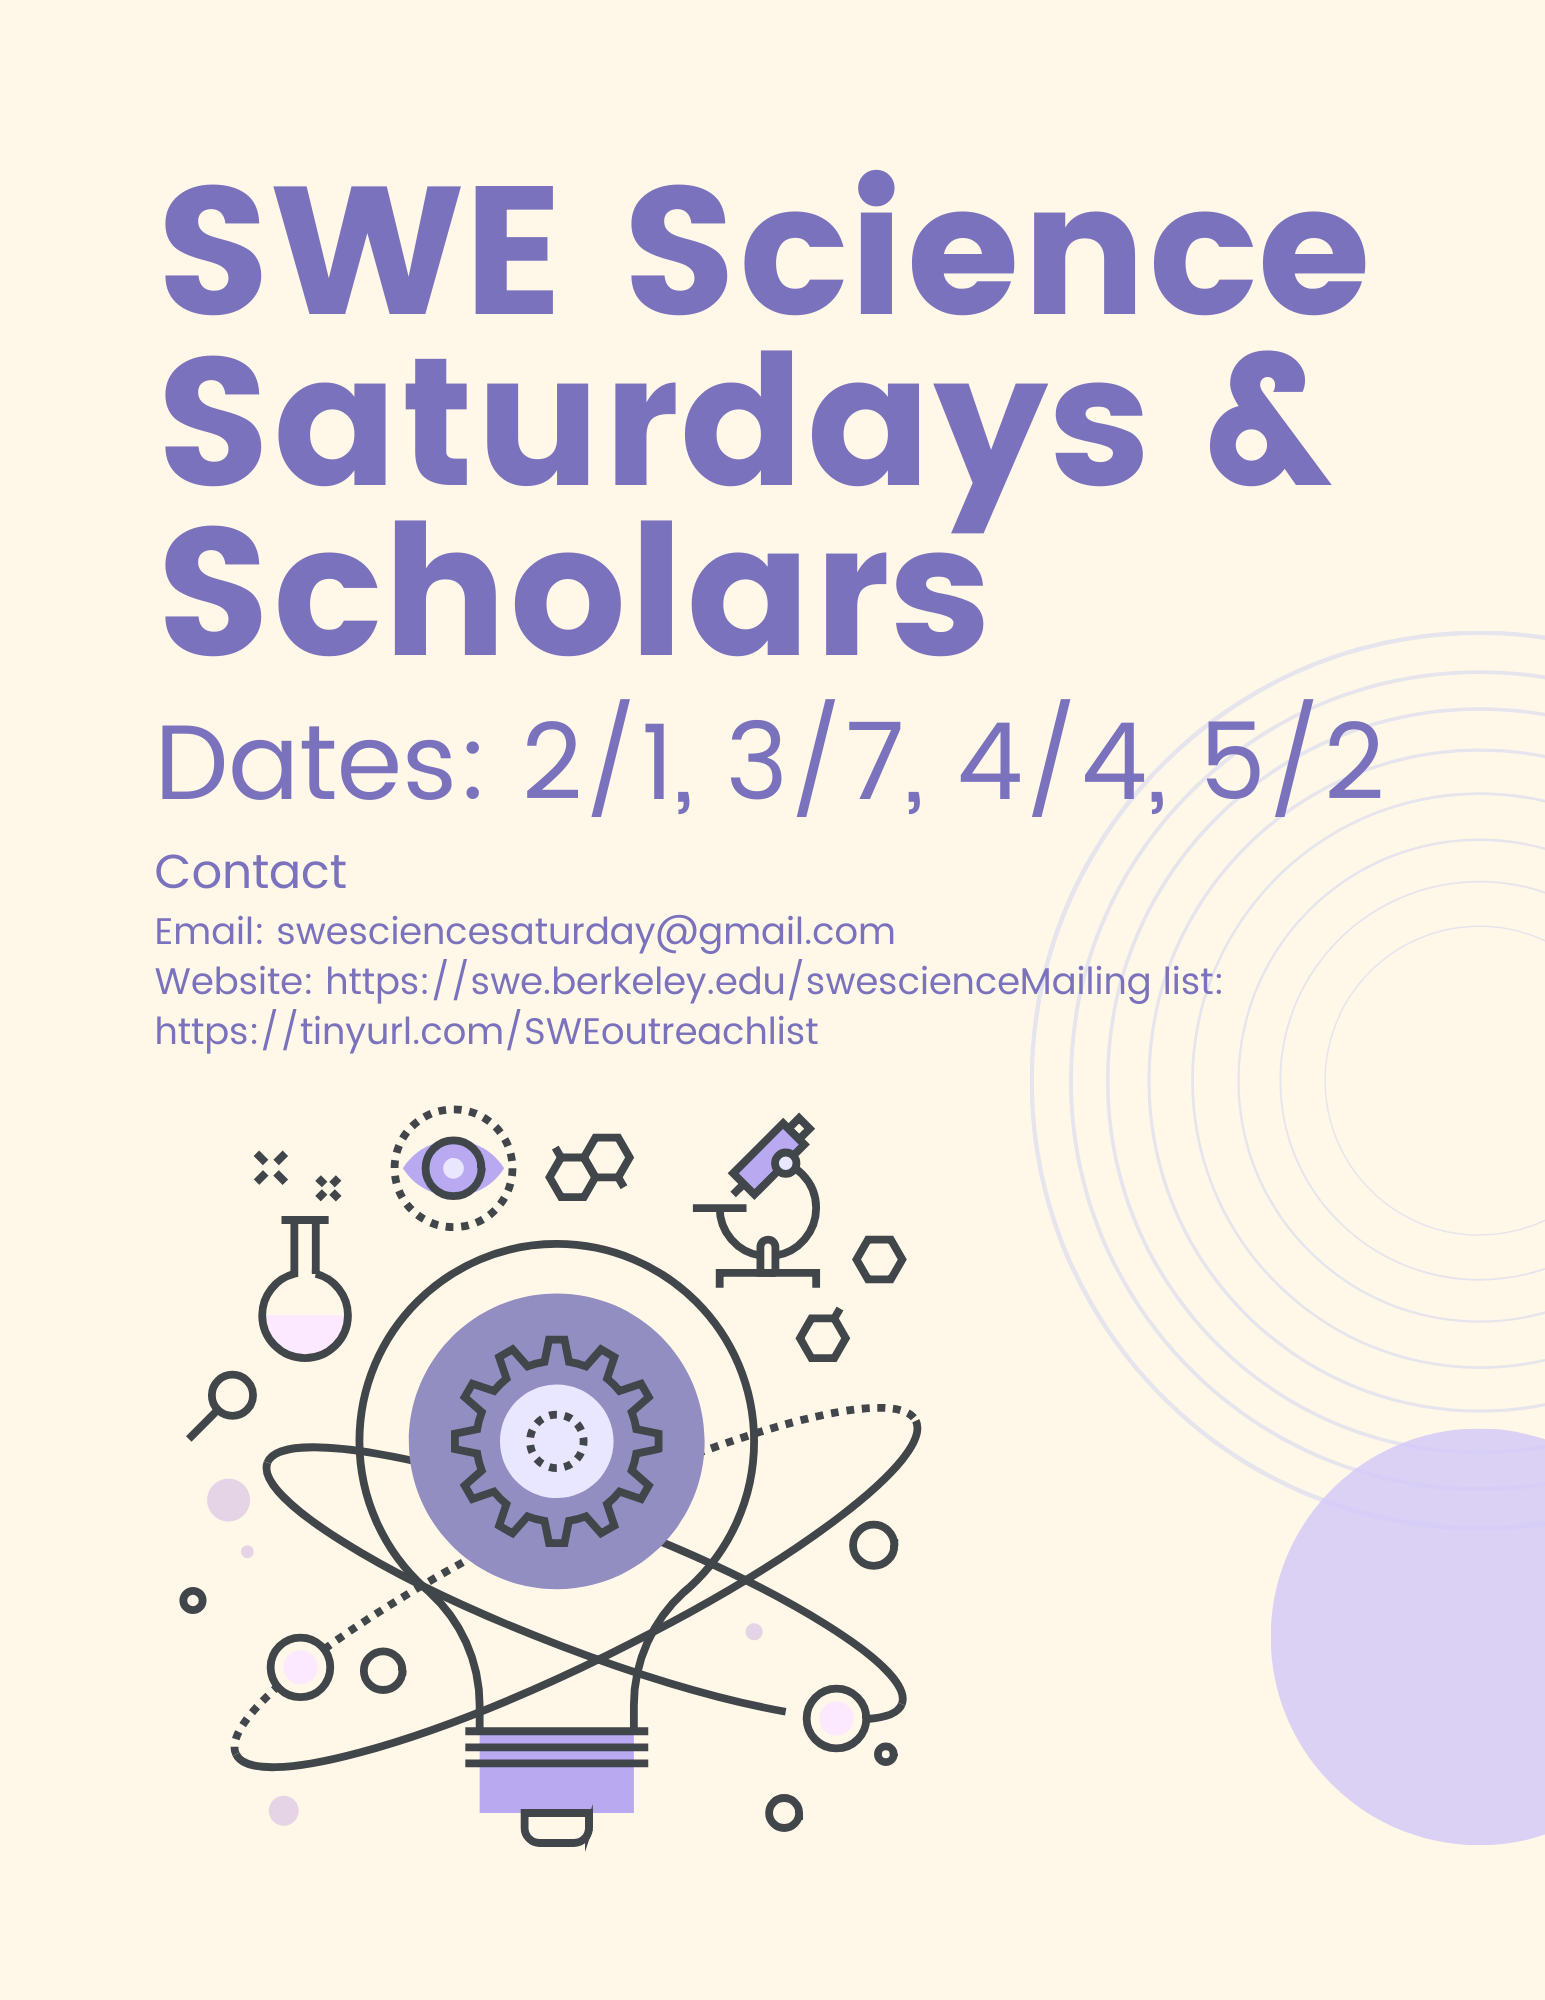
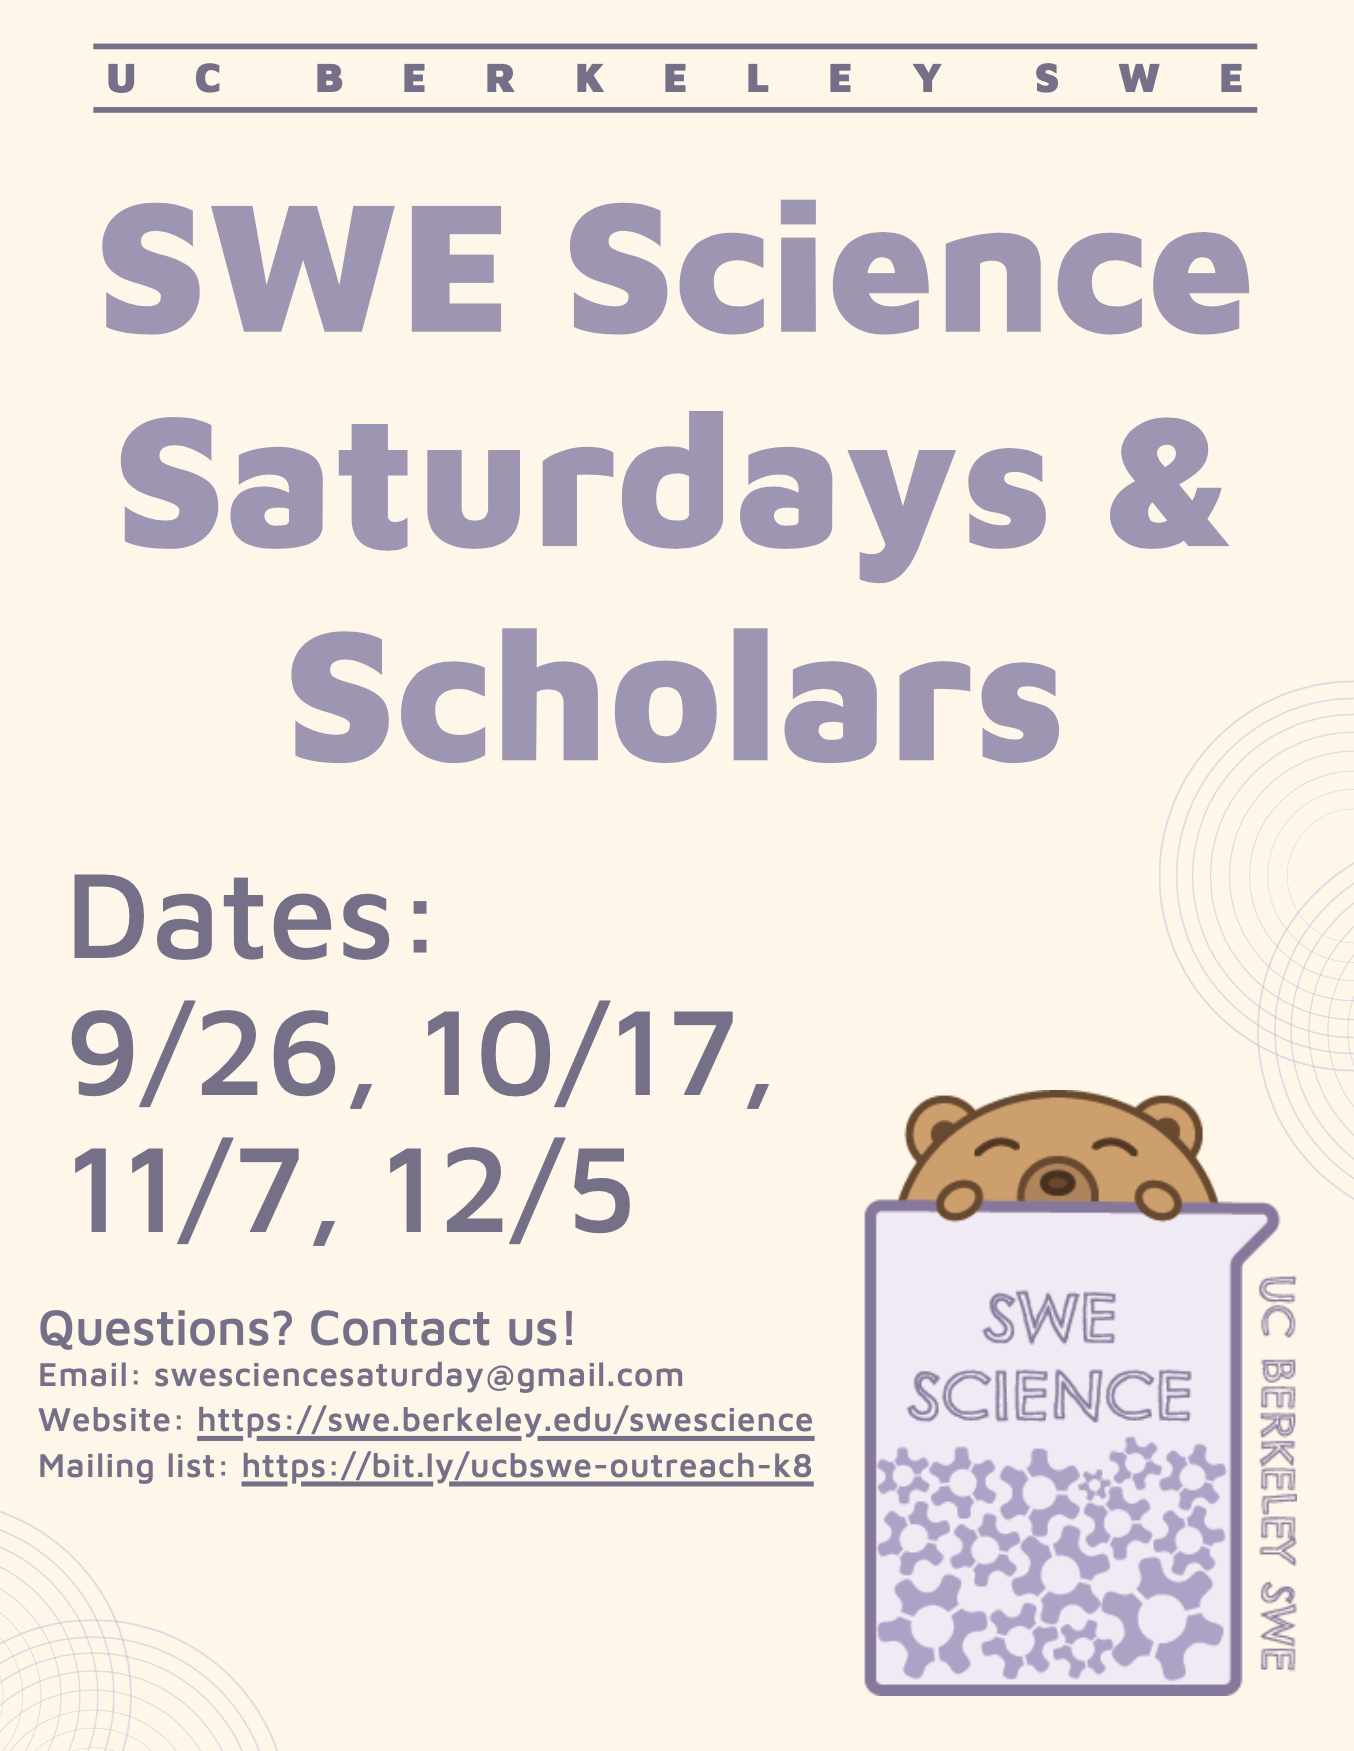
updated flyer and registration link on swescience page

diff --git a/swescience.html b/swescience.html
@@ -95,17 +95,16 @@
         <br>
         <h6>Can't attend the program this semester? We invite any interested parents and teachers to sign up for our Elementary & Middle School Outreach <a href="https://us14.list-manage.com/subscribe?u=4a45e34975f537d1875443dbf&id=6056f61960">Mailing List</a> to stay updated on future SWE Science programs.</h6>
       </div>
+
       <br>
-    <!--  POSTER + APPLICATION LINK
       <div class="row justify-content-center">
-        <div class="col-lg-4 col-md-4 col-sm-12">
+        <div class="col-lg-6 col-md-4 col-sm-12">
           <img class="img-fluid" src="img/outreach/swescience/flyer.png">
         </div>
       </div>
       <div class="row justify-content-center" style="margin-top: 30px; margin-bottom: 30px">
-      <a class="btn btn-purple mx-auto" style="background-color: #551A8B; color:#fff" href="https://tinyurl.com/SWEScienceMarch" target="_">REGISTER YOUR CHILD</a>
+      <a class="btn btn-purple mx-auto" style="background-color: #551A8B; color:#fff" href="https://docs.google.com/forms/d/e/1FAIpQLScJS6TUSXid0Zvy9md9PZovvkJMl6wVj1JGG8spksWm2_fYPg/viewform" target="_">REGISTER YOUR CHILD</a>
       </div>
-    -->
       <br>
 
       <div class="container">
